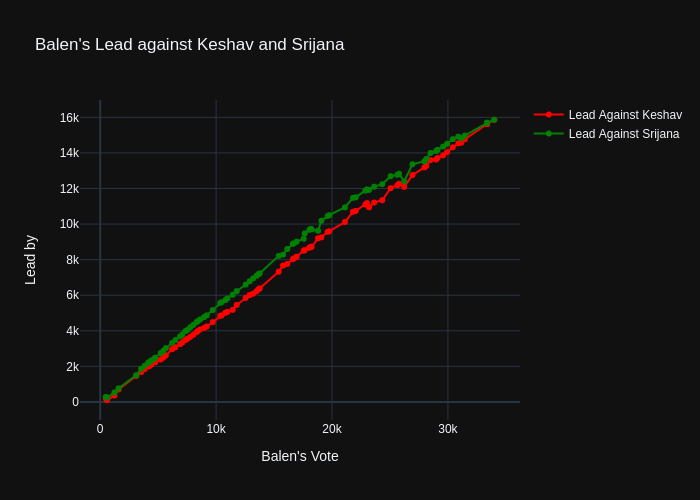
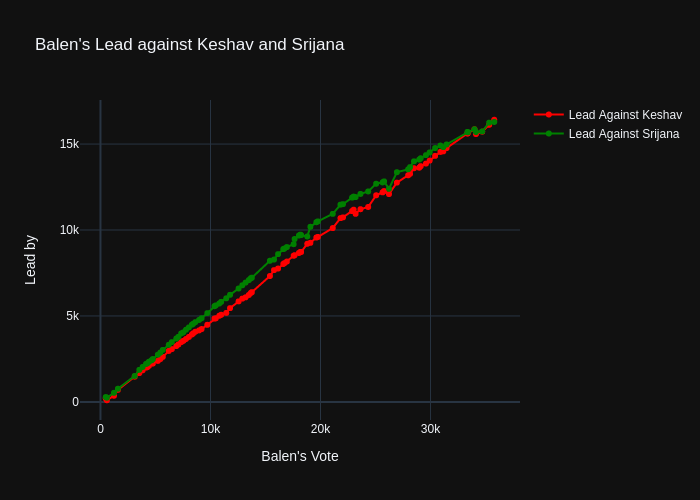
add data

diff --git a/README.md b/README.md
@@ -1,4 +1,4 @@
-## Last Update: 5/21/2022 11:14
+## Last Update: 5/21/2022 18:59
 
 ## Balen's Lead against Keshav Sthapit and Srijana Singh
 ![ScreenShot](final.jpg)
